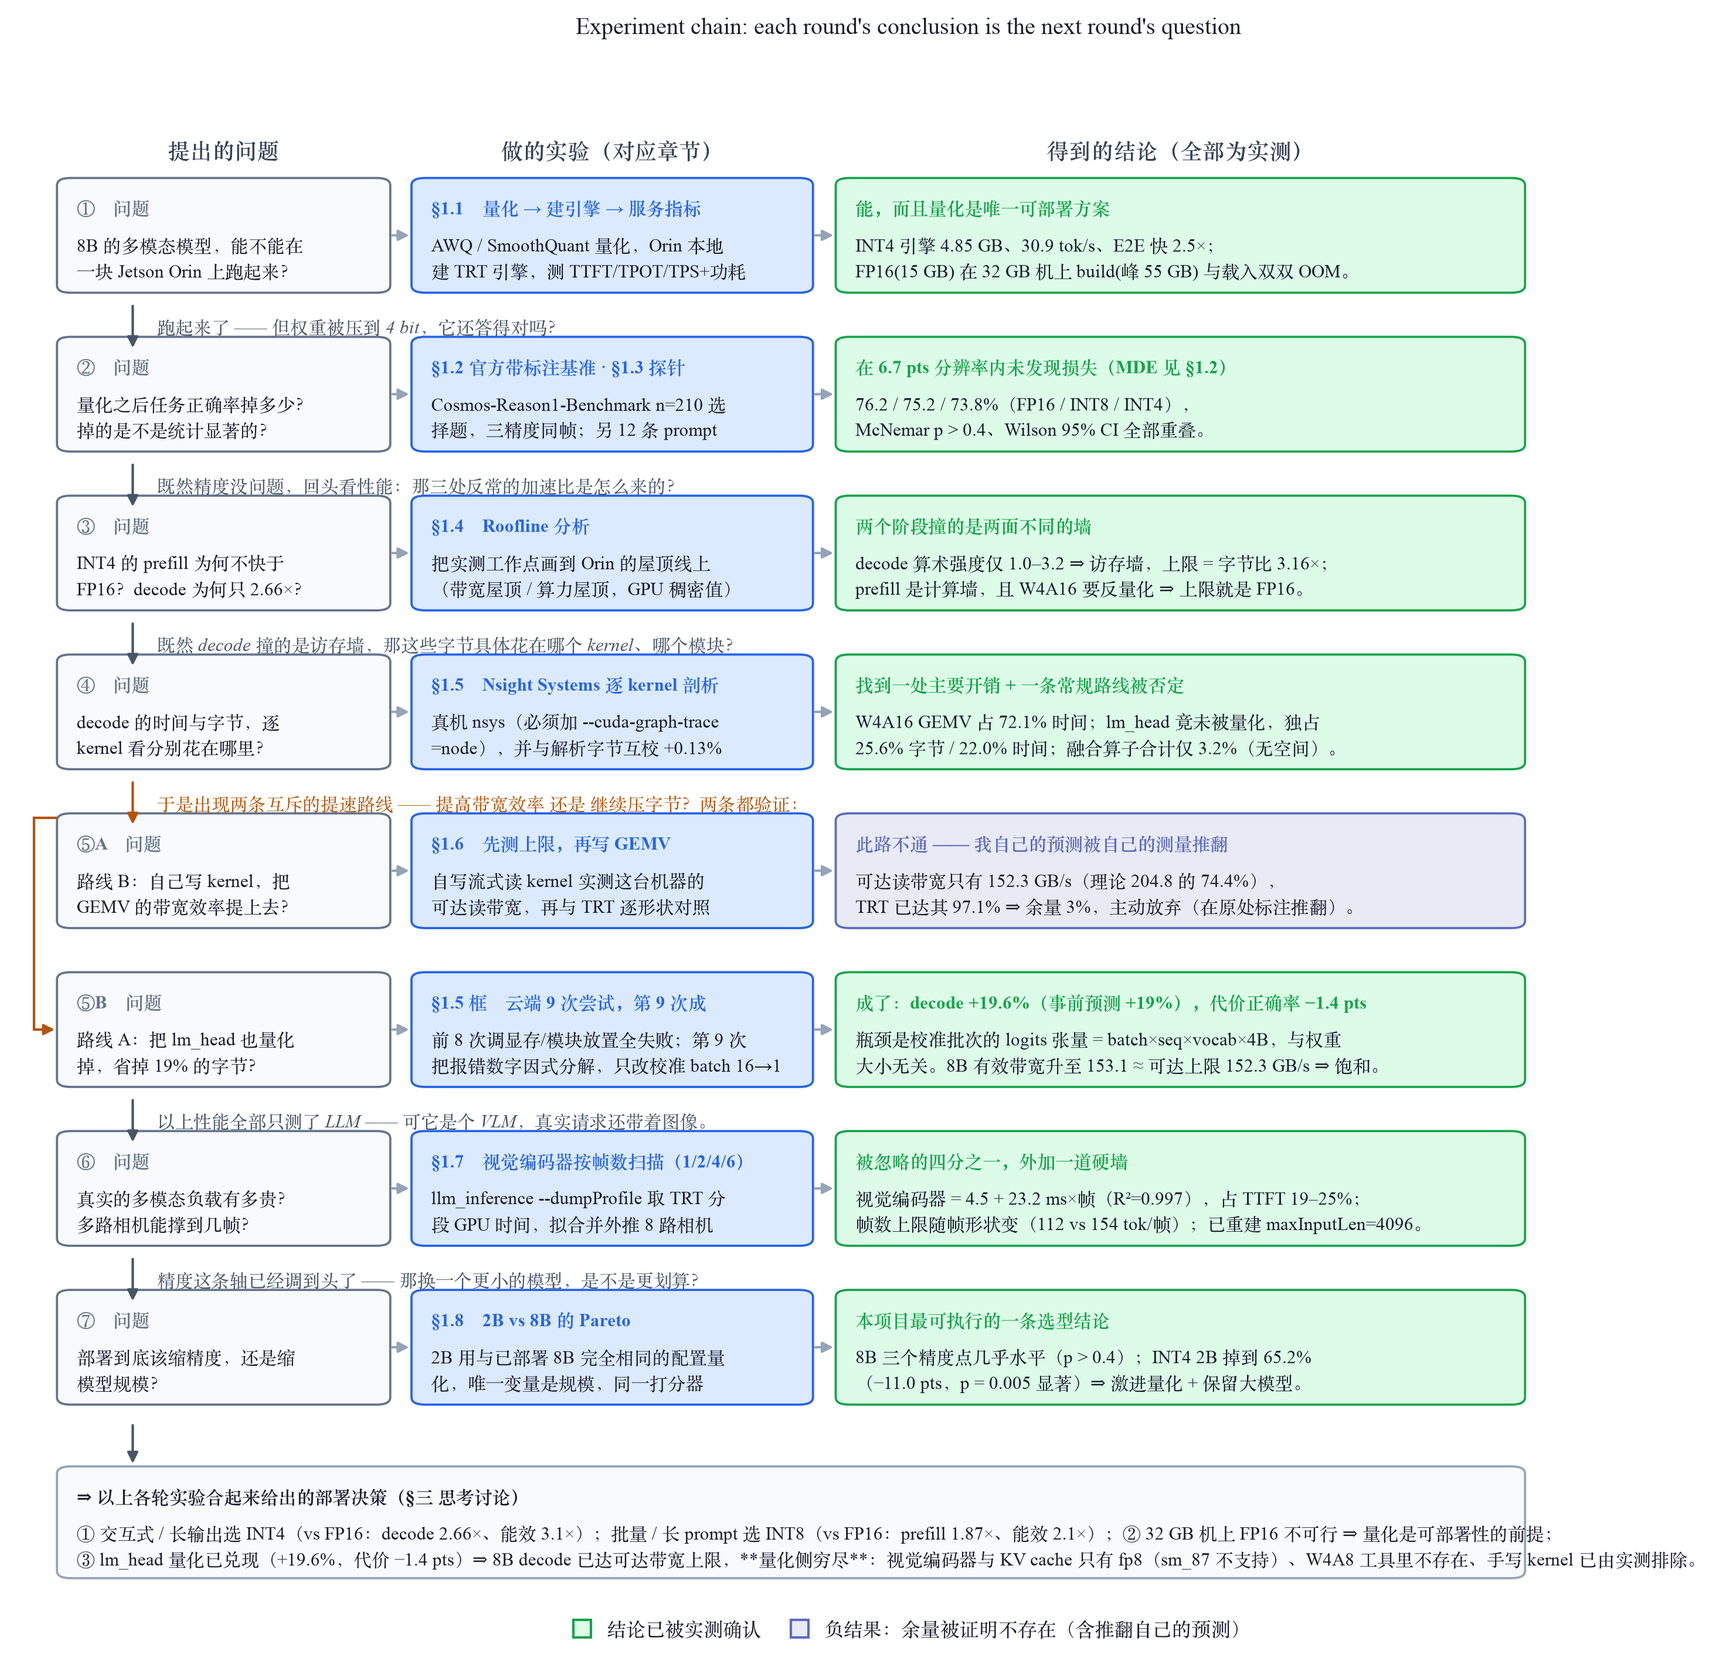
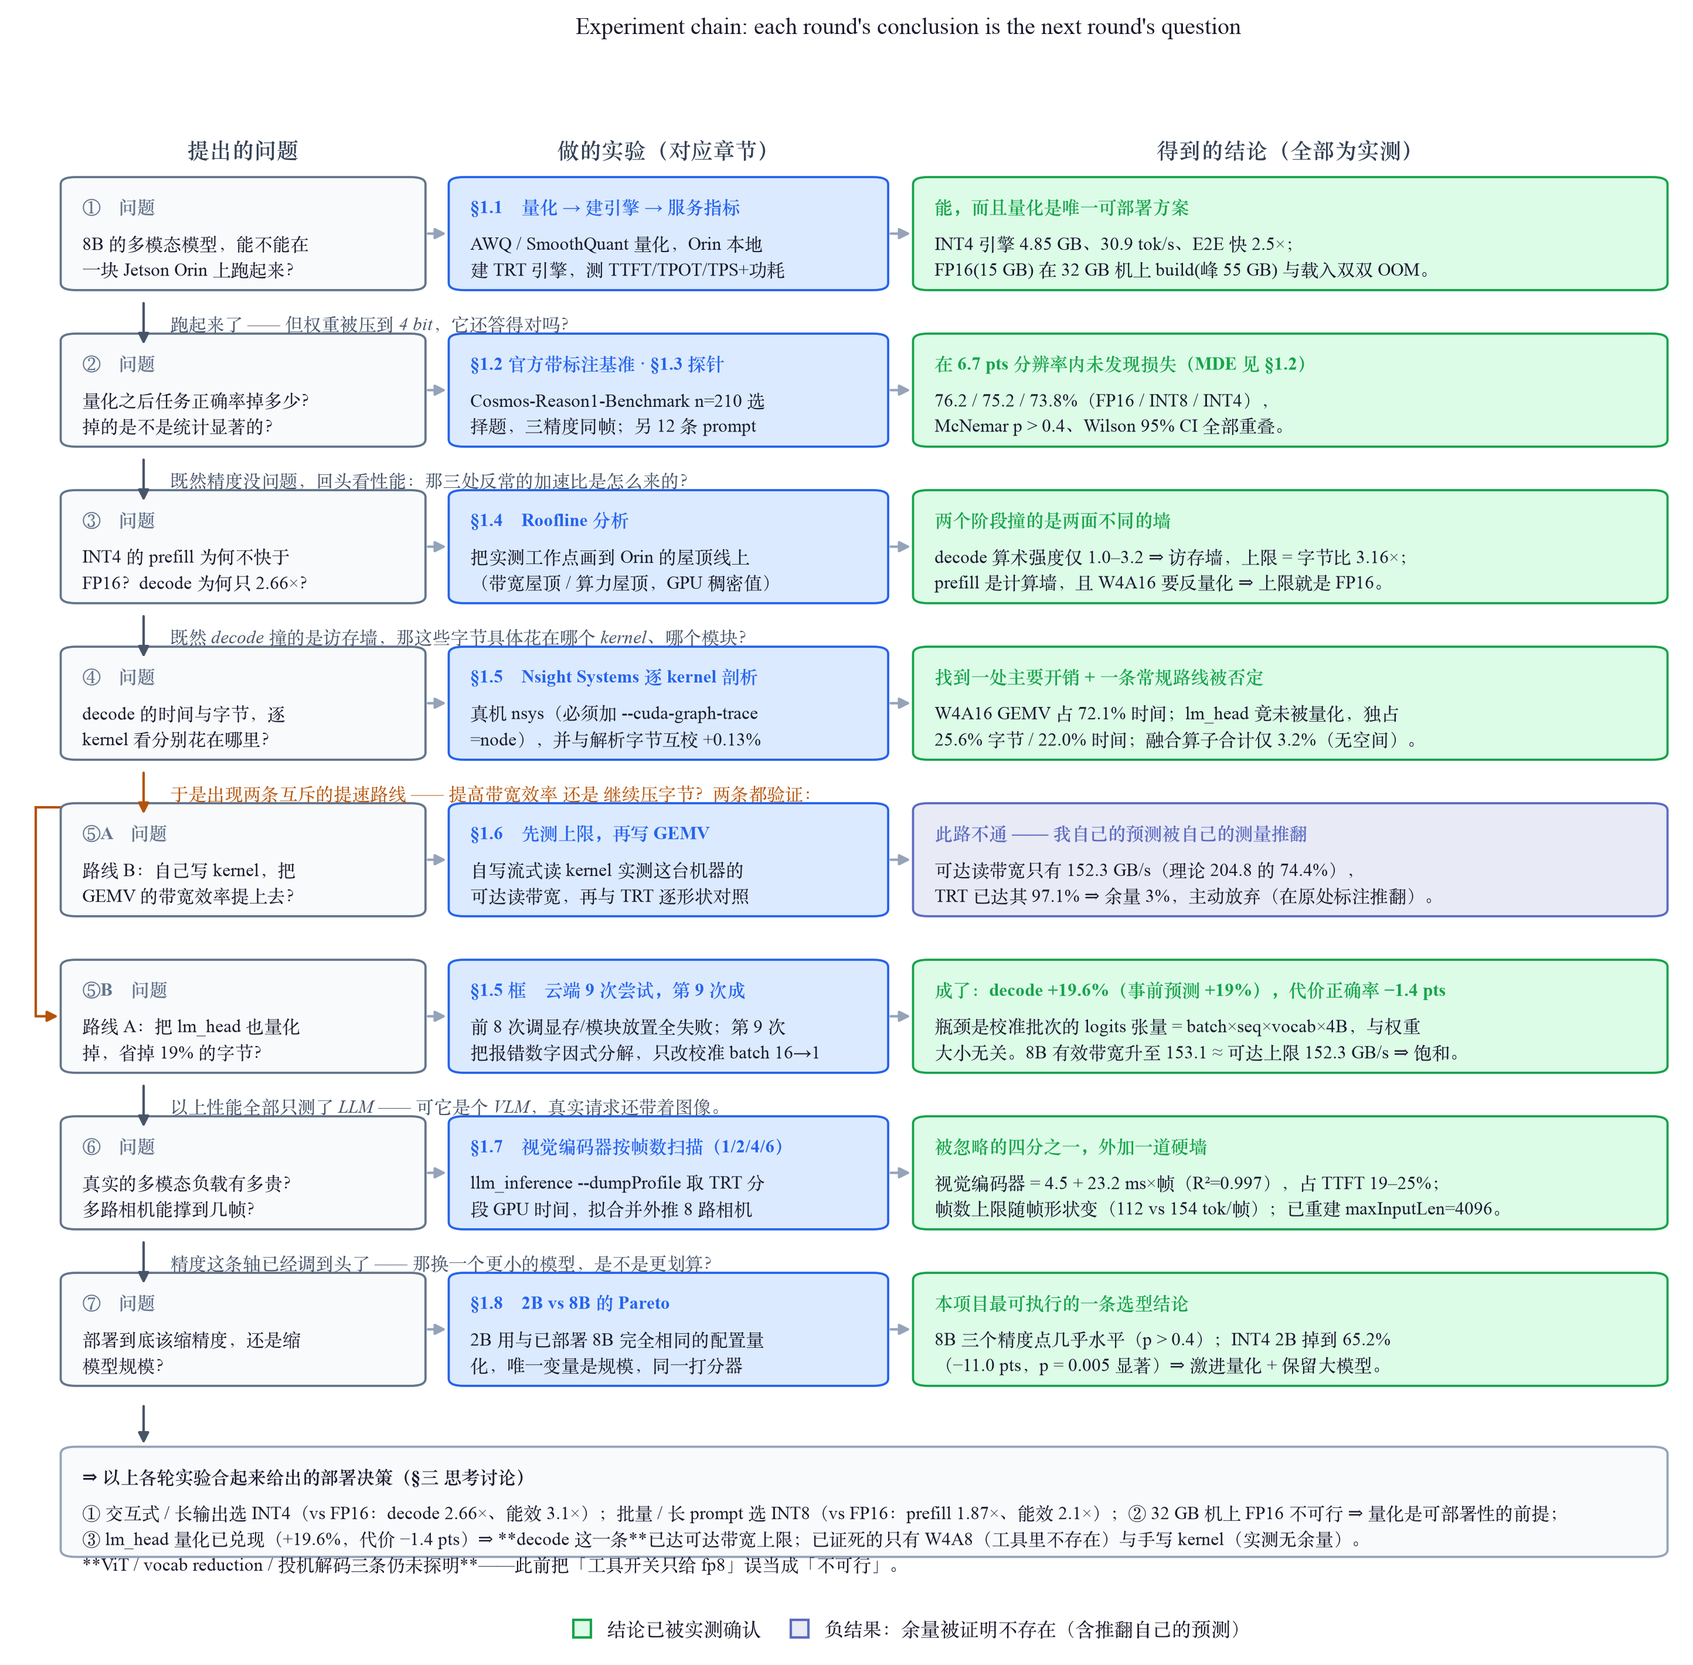
更正一处过度概括："量化侧穷尽" —— 实际只有 W4A8 与手写 kernel 被证死
用户质疑"ViT 量化没做吧"，查证后我错了，而且比被指出的更严重：三条路都还开着。

原判据的问题：我给视觉编码器打"不可行"，唯一依据是 --visual_quantization 的
choices=["fp8"] 而 sm_87 不支持 fp8。但实查构建链——
  visualBuilder.cpp -> parseOnnxModel(model.onnx) -> createBuilderConfig()
  builderUtils.cpp:257 -> config->setFlag(kMONITOR_MEMORY)   <- 只此一个 flag
构建器**一个精度 flag 都没设，精度完全由 ONNX 决定** => 自行给视觉 ONNX 插 QDQ
（ModelOpt 的 ONNX PTQ，与该 CLI 开关是不同代码路）走 TRT 显式量化是一条未测路线，
而 sm_87 的 INT8 张量核是原生的（85 TOPS 稠密 = FP16 的 2 倍）。
=> 我把"按工具设计的用法走不通"写成了"不可行"。

顺带翻出两条此前完全没想到的：
- vocab reduction：tensorrt_edgellm/vocab_reduction/ 是原生模块。lm_head 宽 151936，
  即便 INT4 仍占 3.93 GB 预算的 0.32 GB，词嵌入另有 1.245 GB；砍到 32k 即 4.7×。
- 投机解码：llm_build 原生 --specDraft/--specBase。它**不减每 token 字节**，而是让一次
  权重搬运产出多个 token => 直接绕开"decode 已达带宽上限所以只能减字节"这个论证框架。
  手上正好有已量化的 2B 可作 draft。但 config.py:1111 明写 MTP 只支持 Qwen3.5（我们是
  qwen3_vl）=> MTP 出局；EAGLE3/DFlash 对 qwen3_vl 未核实，标注为未核实而非可用。

ViT 的价值还在放大：§1.7 占 TTFT 19-25%，§1.10 预算显示真实分辨率下升到 29-33%，
且 §1.4 已证权重量化对 prefill 无效 => 这是唯一一处量化还能打到主要成本的地方。

改动：新增 METHODOLOGY §3.6（六条路线按证据强度分级表 + 教训）；§3.5 的 ViT 行由
"不可行"改为"开关不可用但非不可行"并保留原文显示修订轨迹；§0.1 自校验段收窄为
"decode 这条路径饱和"；站点 §1.5 框与「诚实的边界」各加更正；experiment_logic 图
结尾条重绘。教训一句话：判一条路是否死必须查到构建器/运行时层，不能停在 CLI 的 choices。

Changed region(s): [[0.0, 0.062, 0.9972, 0.9915], [0.3428, 0.0, 0.7168, 0.031], [0.7791, 0.062, 0.8102, 0.093]]

diff --git a/alpamayo-edge/site/index.html b/alpamayo-edge/site/index.html
@@ -265,8 +265,8 @@ footer a{color:var(--accent)}
     再次验证"静态量可精确预测、动态量只能给上界"：8B 实现了字节比上界 1.234× 的 <strong>84%</strong>；
     而 <strong>2B 反而超出上界</strong>（1.809× vs 上界 1.514×）—— 因为带宽效率同时从可达上限的 66% 升到 79%，
     去掉那个 M=1 却跑在 64 行 tile 上的 fp16 lm_head GEMM（占 2B decode 字节 46%）改善了访存形态（机制为推断）。<br>
-    <strong>量化侧到此穷尽</strong>：8B decode 的有效带宽 153.1 GB/s ≈ 实测可达上限 152.3 ⇒ 路径已完全饱和，
-    再提速只能继续减字节，而 KV cache 量化在 sm_87 不可用（§2.3）。<br>
+    <strong>decode 这一条到此饱和</strong>：8B 的有效带宽 153.1 GB/s ≈ 实测可达上限 152.3 ⇒ 在"每 token 字节"不变的前提下已无余量。<br>
+    <strong style="color:#b45309">⚠ 但这不等于量化侧穷尽 —— 这是本页 2026-07-28 更正的一处过度概括。</strong>已证死的只有 <strong>W4A8</strong>（工具全仓库无实现）与 <strong>手写 kernel</strong>（实测已达可达带宽 97–100%）。另有三条<strong>仍未探明</strong>：<strong>① 视觉编码器 INT8</strong>——此前的判据只是"`--visual_quantization` 只给 fp8 而 sm_87 不支持 fp8"，但实查构建链发现 <code>visualBuilder.cpp</code> 用通用 ONNX parser、<code>createBuilderConfig</code> <strong>只设 kMONITOR_MEMORY、无任何精度 flag</strong> ⇒ 精度由 ONNX 决定，自插 QDQ 走 TRT 显式量化未被测试过（sm_87 的 INT8 张量核是原生的）；<strong>② vocab reduction</strong>——工具有原生模块，lm_head 宽 151936，砍到 32k 即 4.7×；<strong>③ 投机解码</strong>——<code>llm_build</code> 原生支持，且它不减字节而是让一次权重搬运产出多个 token，<strong>直接绕开"decode 已达带宽上限"这个框架</strong>（MTP 明确只支持 Qwen3.5 故出局，EAGLE3/DFlash 对 qwen3_vl 未核实）。而 <strong>ViT 的价值还在放大</strong>：§1.7 测得它占 TTFT 19–25%，§1.10 的预算显示真实分辨率下升到 <strong>29–33%</strong>，且 §1.4 已证权重量化对 prefill 无效 ⇒ 这是唯一一处量化还能打到主要成本的地方。分级见 <a href="https://github.com/ranpin/qwen-trajectory-prediction/blob/alpamayo-edge/alpamayo-edge/docs/METHODOLOGY.md" target="_blank" style="color:var(--accent)">METHODOLOGY §3.6</a>。<br>
     <strong>但不是免费的</strong>：8B 付了 −1.4 pts，且损失集中在更难的 robofail（59.0 → 55.0）；2B 则没付代价。
     <strong>⚠ 归因有 confound</strong>：本次同时改了两件事（lm_head 量化 + 校准 batch 16→1），
     所以 −1.4 pts <strong>不能单独归因于 lm_head 量化</strong>；要隔离需再做一次"lm_head 保持 fp16 + batch=1"的对照，<strong>未做</strong>。
@@ -427,6 +427,7 @@ footer a{color:var(--accent)}
   </ul>
   <h3>诚实的边界</h3>
   <ul>
+    <li><strong>"量化侧穷尽"是本页曾犯的过度概括（2026-07-28 已更正）</strong>：lm_head 落地、decode 达可达带宽上限后，我据此写下"量化侧穷尽"。但复核发现<strong>只有 W4A8 与手写 kernel 真正被证死</strong>；视觉编码器 INT8 的原判据仅是"CLI 开关只给 fp8"，而构建器实际不设任何精度 flag（精度由 ONNX 决定）⇒ 自插 QDQ 未测；另外 <strong>vocab reduction 与投机解码两条我此前完全没想到</strong>，且后者不减字节、直接绕开"带宽上限"这个论证框架。<strong>教训</strong>：判一条路是否死，必须查到构建器/运行时层，不能停在 CLI 的 <code>choices=[...]</code>。分级见 METHODOLOGY §3.6。</li>
     <li><strong>辅助 perplexity 指标曾有截断 confound（自查发现，2026-07-27 已解决）</strong>：原先 <strong>INT4 有 8/12、INT8 有 6/12</strong> 条撞生成上限，且 FP16 参考侧用的是另一个上限（Kaggle 160 vs Orin 200）——<strong>被比较的两侧预算不一致</strong>，而 INT4 被截得更多却报出更小的 perplexity 增幅，所以"INT4 退化小于 INT8"有可能是假象。<strong>已两侧统一到 512 重跑</strong>（Orin 侧截断降到 2/12；FP16 侧输出中位长度 719→1248 字符）：结果 <strong>INT4 +9.1% / INT8 +15.6%</strong>，<strong>结论方向不变、原结论成立</strong>，但截断确实把差距夸大过（INT8/INT4 之比 1.85× → 1.71×）。两版数字都保留在表 5，不覆盖历史。主指标 MC 正确率自始不受影响（210×3 条全部 end-of-sequence、全部可解析）。</li>
     <li><strong>输入长度只剩 0.9% 余量（事后才发现）</strong>：引擎 <code>maxInputLen=1024</code> 是构建时钉死的；n=210 里最长的一题实测 <strong>1015 token</strong>（40 段 5:4 视频是 154 token/帧，6 帧就 924），<strong>只剩 9 个 token</strong>。日志无截断告警、210 条全部返回，故已发布正确率不受影响，但当初没算这笔账；要加帧数或加长题干必须以更大 <code>maxInputLen</code> 重建引擎（见图 2）。</li>
     <li><strong>基准范围</strong>：用 <strong>Cosmos-Reason1-Benchmark 的 robovqa+robofail（n=210，具身机器人推理，非驾驶）</strong>——这是 repo 内<strong>自带视频</strong>的全部；其余 3 子集(agibot/bridgev2/holoassist，共 300)仅有标注、视频需从外部源数据集下载匹配，官方 AV 子集未发布 → 全 510 需外部视频流水线(future work)。<strong>无 Cosmos-Reason2-Benchmark（不存在），故用同族的 R1-Benchmark 评测 R2 模型（标准做法）</strong>。视频按 6 帧@448 采样（非官方原生协议，绝对分不追求复现论文；三精度同帧→精度损失可比）。</li>

diff --git a/alpamayo-edge/eval/experiment_logic.py b/alpamayo-edge/eval/experiment_logic.py
@@ -188,7 +188,8 @@ ax.annotate("", xy=(QX + 5.0, 8.4), xytext=(QX + 5.0, 11.0),
 panel(QX, 0.6, 96.9, 7.6,
       "① 交互式 / 长输出选 INT4（vs FP16：decode 2.66×、能效 3.1×）；批量 / 长 prompt 选 INT8"
       "（vs FP16：prefill 1.87×、能效 2.1×）；② 32 GB 机上 FP16 不可行 ⇒ 量化是可部署性的前提；\n"
-      "③ lm_head 量化已兑现（+19.6%，代价 −1.4 pts）⇒ 8B decode 已达可达带宽上限，**量化侧穷尽**：视觉编码器与 KV cache 只有 fp8（sm_87 不支持）、W4A8 工具里不存在、手写 kernel 已由实测排除。",
+      "③ lm_head 量化已兑现（+19.6%，代价 −1.4 pts）⇒ **decode 这一条**已达可达带宽上限；已证死的只有 W4A8（工具里不存在）与手写 kernel（实测无余量）。\n"
+      "**ViT / vocab reduction / 投机解码三条仍未探明**——此前把「工具开关只给 fp8」误当成「不可行」。",
       "#f8fafc", "#94a3b8",
       head="⇒ 以上各轮实验合起来给出的部署决策（§三 思考讨论）", hcol=INK)
 

diff --git a/alpamayo-edge/docs/METHODOLOGY.md b/alpamayo-edge/docs/METHODOLOGY.md
@@ -79,7 +79,7 @@ Alpamayo 1.5 VLA（本项目部署的正是它的 VLM backbone）。
 **自校验**：3.473 + 0.136 + 1.245 = **4.853 GB**，与实测引擎文件 4.847 GB 差 **+0.13%**；
 4.853 GB ÷ 实测 TPOT 33.1 ms = **146.5 GB/s**，为本机实测可达读带宽 152.3 GB/s 的 **96%**
 （⇒ 搬运效率已无余量，剩余收益只能来自减少字节；见 §1.6）。
-**lm_head 也量化为 INT4 后（2026-07-28 已实测）**：解析预测 4.853 → **3.932 GB**（−19%），实测引擎 **3.923 GB（误差 −0.23%）**；TPOT 30.73 → **25.69 ms（+19.6%）**，有效带宽升到 **153.1 GB/s ≈ 可达上限 152.3** ⇒ **decode 路径已完全饱和，量化侧穷尽**（视觉编码器与 KV cache 只有 fp8、sm_87 不支持；W4A8 工具里不存在，见 §3.5）。代价：n=210 正确率 −1.4 pts，且**归因有 confound**（同时改了校准 batch 16→1）。
+**lm_head 也量化为 INT4 后（2026-07-28 已实测）**：解析预测 4.853 → **3.932 GB**（−19%），实测引擎 **3.923 GB（误差 −0.23%）**；TPOT 30.73 → **25.69 ms（+19.6%）**，有效带宽升到 **153.1 GB/s ≈ 可达上限 152.3** ⇒ **decode 这条路径已完全饱和**——在"每 token 字节"不变的前提下无余量。**但这不等于量化侧穷尽**（2026-07-28 更正，见 §3.5 与 §3.6）：视觉编码器量化、vocab reduction、投机解码三条仍未探明。代价：n=210 正确率 −1.4 pts，且**归因有 confound**（同时改了校准 batch 16→1）。
 
 **实验之间的逻辑**：图 `docs/figures/experiment_logic.png`（脚本 `eval/experiment_logic.py`）——
 每一轮实验的结论就是下一轮的问题，含两条互斥提速路线的分叉与各自结局（一条被实测证否、一条第 9 次尝试成功）。
@@ -171,9 +171,11 @@ Alpamayo 1.5 VLA（本项目部署的正是它的 VLM backbone）。
 |---|---|---|---|
 | **骨干** `--quantization` | fp8 / int4_awq / nvfp4 / mxfp8 / int8_sq | 仅 **int4_awq**、**int8_sq** | ✅ 两者都已部署实测 |
 | **lm_head** `--lm_head_quantization` | fp8 / int4_awq / nvfp4 / mxfp8 | **int4_awq** ✅ | ✅ **本轮执行**（decode 字节 −19%，预测 +23%） |
-| **视觉编码器** `--visual_quantization` | **仅 fp8** | ❌ | **不可行**：fp8 需 sm_89+，Orin 是 sm_87 |
+| **视觉编码器** `--visual_quantization` | **仅 fp8** | ⚠ 开关不可用，**但非不可行** | fp8 需 sm_89+，Orin 是 sm_87 ⇒ **该开关**走不通。**但 `visualBuilder.cpp` 用通用 ONNX parser、`createBuilderConfig` 只设 `kMONITOR_MEMORY`（无任何精度 flag）⇒ 精度由 ONNX 自身决定**，自行插入 QDQ 走 TRT 显式量化是一条**未测试**的路线；sm_87 的 INT8 张量核是原生的（85 TOPS 稠密）。见 §3.6 |
 | **KV cache** `--kv_cache_quantization` | **仅 fp8** | ❌ | **不可行**：同上 |
 | **W4A8**（roofline 指出的 prefill 提速路径） | **工具中不存在**（全仓库 grep 无命中） | ❌ | **不可行**：需上游支持 |
+
+**（2026-07-28 更正：下面第 1 条已被推翻，视觉编码器并非不可行——见上表与 §3.6。保留原文以显示修订轨迹。）**
 
 三条不可行路径的意义：
 1. **视觉编码器 INT8 不可能**（不只是"要回云端"，而是工具只给 fp8、硬件又不支持 fp8）。视觉编码器占 TTFT 的
@@ -185,6 +187,25 @@ Alpamayo 1.5 VLA（本项目部署的正是它的 VLM backbone）。
 ⇒ **在 sm_87 + TRTEdge 这个组合下，量化侧可做的优化在 lm_head 之后基本穷尽**。剩余收益需从
 **模型规模选择**（2B vs 8B）或**换框架**里找。校准集默认值也在此确认：`--dataset cnn_dailymail`、
 `--num_samples 512`（与 §4 记录一致）。
+
+### 3.6 未探明的量化路线（2026-07-28 更正 §3.5 的一处过度概括）
+
+§3.5 曾把三条路都标成"不可行"，其中**视觉编码器那条的判据不成立**，另有两条我当时根本没想到。
+如实分级如下（证据强度，而不是感觉）：
+
+| 路线 | 工具支持 | 证据强度 | 说明 |
+|---|---|---|---|
+| **视觉编码器 INT8** | `--visual_quantization` 只给 fp8 | ⚠ **未证死** | 判据只覆盖"按工具设计的用法"。实查构建链：`visualBuilder.cpp` 用**通用 ONNX parser**，`builderUtils.cpp:257` 的 `createBuilderConfig` **只设 `kMONITOR_MEMORY`、无任何精度 flag** ⇒ **精度由 ONNX 决定**。故"自己给视觉 ONNX 插 QDQ（ModelOpt 的 ONNX PTQ，与该开关是不同代码路）+ TRT 显式量化"是一条未测路线；sm_87 的 INT8 张量核原生（85 TOPS 稠密 = FP16 的 2 倍）。**价值最高**：§1.7 测得 ViT 占 TTFT 19–25%，而 §1.10 的延迟预算显示真实分辨率下升到 **29–33%**，且 §1.4 已证权重量化对 prefill 无效 ⇒ 这是唯一一处量化还能打到主要成本的地方。 |
+| **vocab reduction** | `tensorrt_edgellm/vocab_reduction/` **原生模块** | ✅ 完全未探 | lm_head 是 4096×**151936**；即便量化成 INT4 仍占 3.93 GB 预算的 0.32 GB，词嵌入表另有 1.245 GB。词表砍到 32k 即 4.7×。对"只答一个字母"这类定格式任务语义安全。此前的分析里**一次都没提到过**。 |
+| **投机解码** | `llm_build --specDraft / --specBase`（EAGLE3 / MTP / DFlash） | ⚠ 部分排除 | 它**不减每 token 字节**，而是让一次权重搬运产出多个 token ⇒ **直接绕开"decode 已达带宽上限"这个框架**。手上正好有已量化的 2B 可作 draft、8B 作 base。但 `config.py:1111` 明写 "MTP config parsing is only supported for Qwen3.5 checkpoints" 而我们是 `qwen3_vl` ⇒ **MTP 出局**；EAGLE3 / DFlash 对 `qwen3_vl` 是否支持**未核实**。 |
+| KV cache 量化 | 只给 fp8 | ⚠ 较强但非证死 | 同为"开关不可用"。但 KV cache 是运行时 buffer、不是 ONNX 图的一部分，所以上面那条 QDQ 绕路**不适用** ⇒ 比视觉编码器站得住，仍不等于"已证不可行"。 |
+| **W4A8** | 全仓库 grep 无命中 | ✅ **已证死** | 不是开关问题，是实现不存在 ⇒ 需换框架。 |
+| **手写 kernel** | — | ✅ **已证死** | §1.6 实测 TRT 已达可达带宽 97.1%，lm_head 量化后更达 100%。 |
+
+**教训**：我把"按工具设计的用法走不通"写成了"不可行"，而这正是本项目方法论里那条
+"把未来工作降解为已证死路"的**误用**——那条的前提是**真的证死**。
+判断一条路是否死，必须查到**运行时/构建器层**（这次的关键证据就是 `createBuilderConfig` 里一个精度 flag 都没有），
+而不是停在 CLI 的 `choices=[...]`。
 
 ### 3.1 延迟 / 吞吐 —— `llm_bench`
 ```bash
